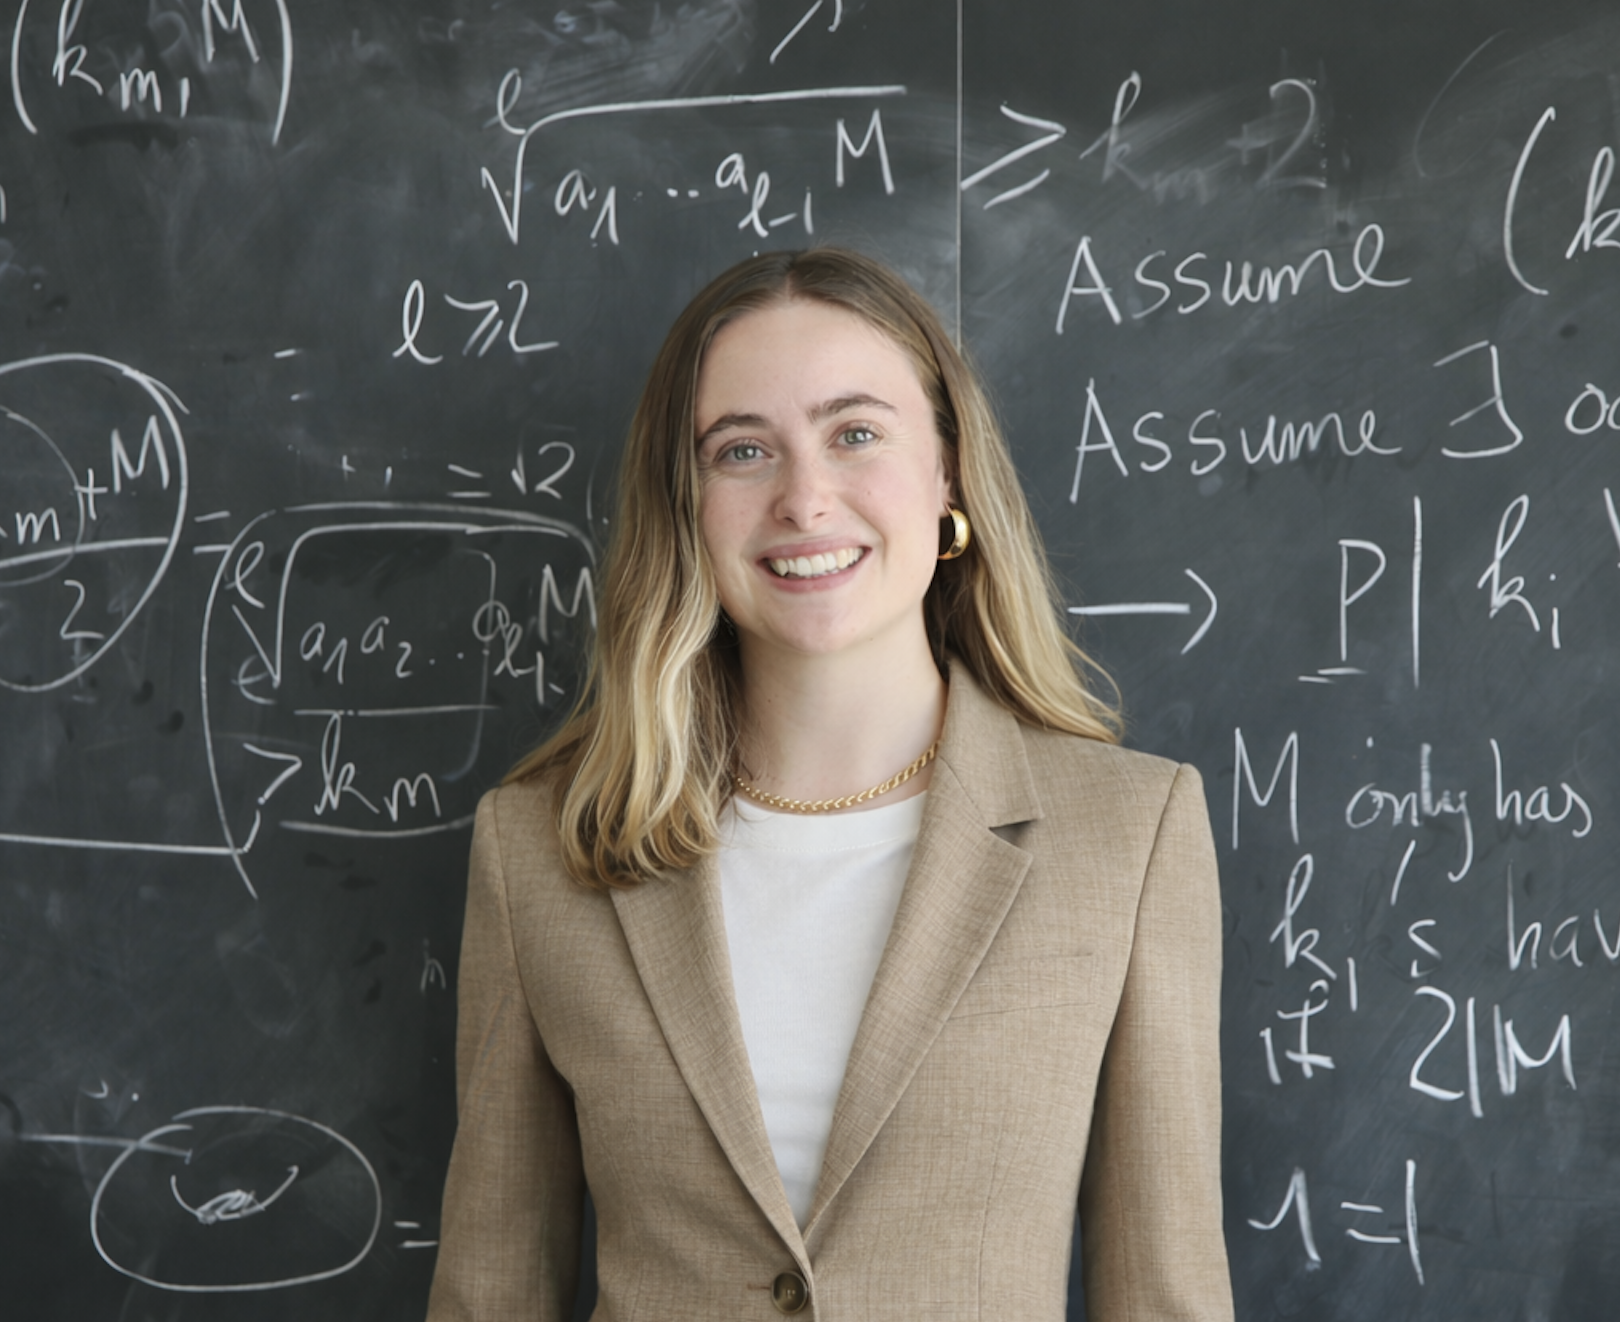
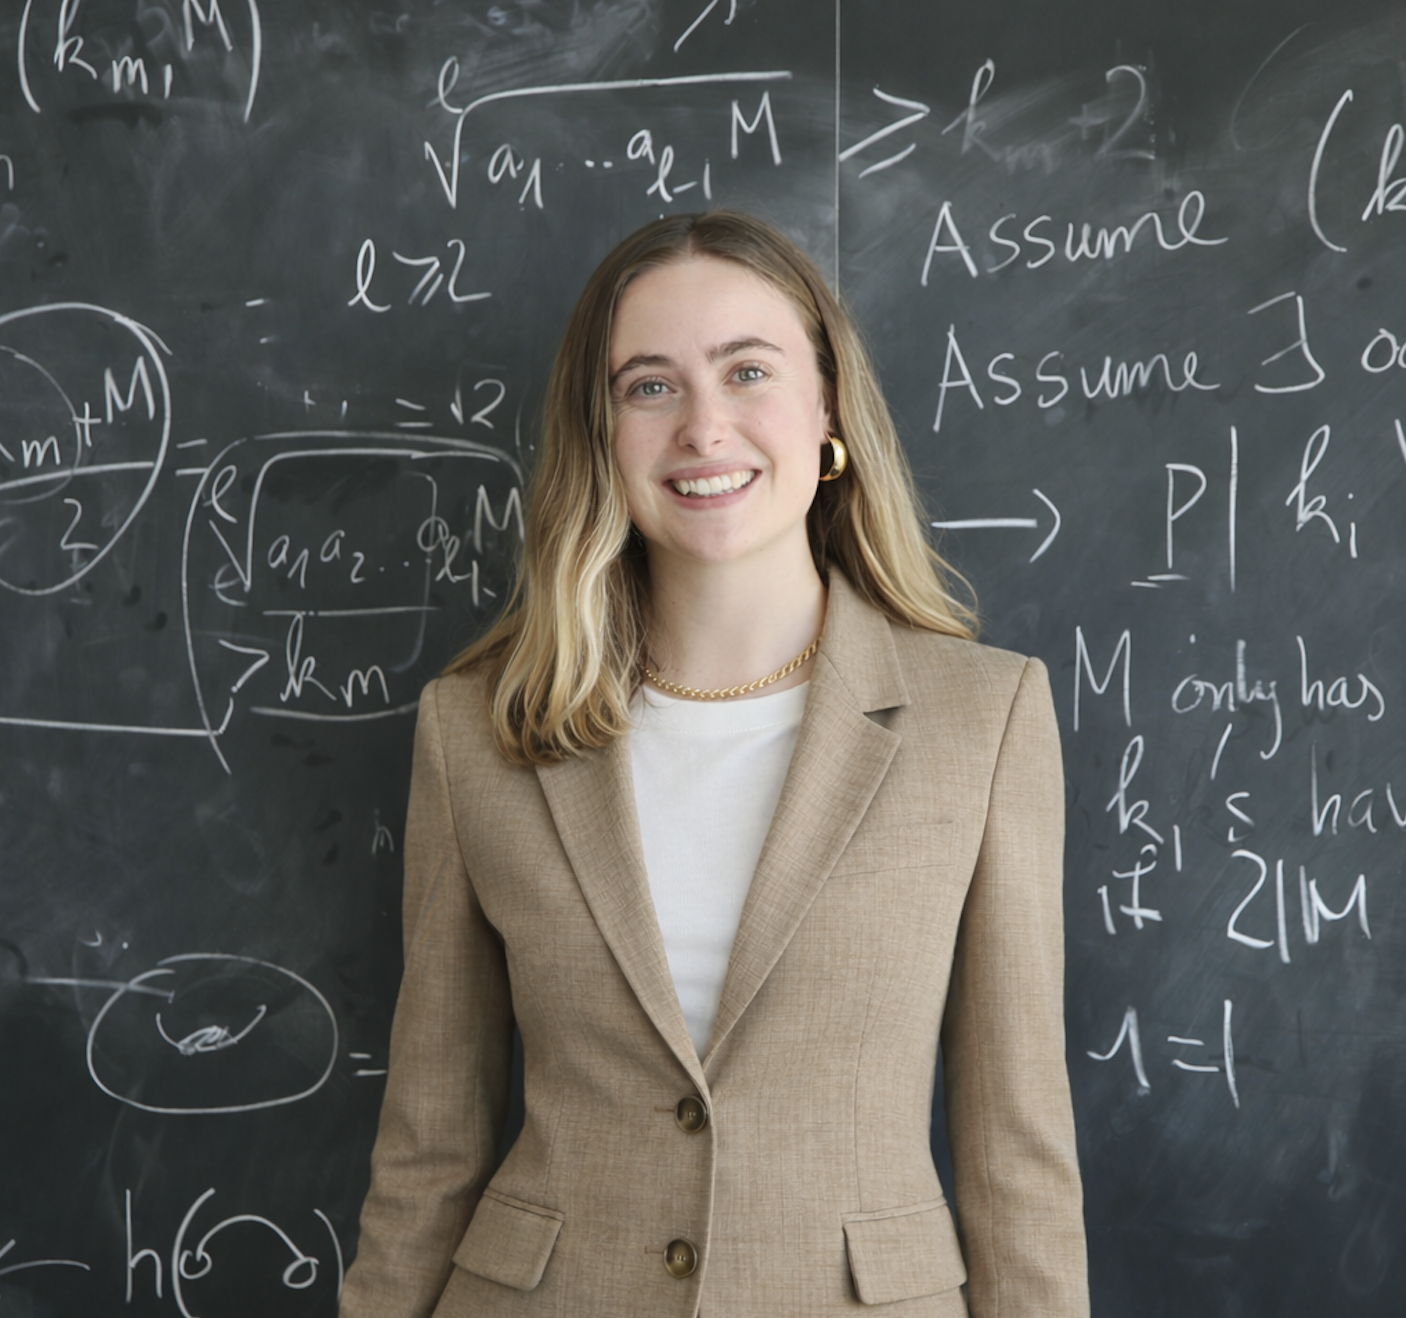
Update headshot and fix image display to show full width
Dynamically sizes the left column based on image aspect ratio
so the full headshot is visible without cropping, while keeping
the image height aligned to the about blurb.

diff --git a/website/index.html b/website/index.html
@@ -45,10 +45,12 @@
             padding-top: 2.6em;
         }
         img.portrait {
-            width: 100%;
+            width: auto;
+            max-width: 100%;
             height: auto;
             border-radius: 20px;
             display: block;
+            margin: 0 auto;
         }
         #typing-header {
             font-family: Arial, Helvetica, sans-serif;
@@ -80,7 +82,8 @@
                 width: 280px;
             }
             img.portrait {
-                height: auto;
+                height: auto !important;
+                width: 100%;
             }
             #social-icons {
                 justify-content: center;
@@ -148,6 +151,26 @@
         </div>
     </div>
     <script>
+        function matchPhotoToBubble() {
+            const bubble = document.querySelector('.about-bubble');
+            const photo = document.querySelector('img.portrait');
+            const leftCol = document.querySelector('.left-col');
+            if (!bubble || !photo || !leftCol) return;
+
+            if (window.innerWidth > 700) {
+                var targetHeight = bubble.offsetHeight;
+                var aspectRatio = photo.naturalWidth / photo.naturalHeight;
+                var targetWidth = Math.round(targetHeight * aspectRatio);
+                photo.style.height = targetHeight + 'px';
+                leftCol.style.width = targetWidth + 'px';
+            } else {
+                photo.style.height = 'auto';
+                leftCol.style.width = '';
+            }
+        }
+        window.addEventListener('load', matchPhotoToBubble);
+        window.addEventListener('resize', matchPhotoToBubble);
+
         document.addEventListener('DOMContentLoaded', function() {
             new TypeIt('#typing-header', {
                 speed: 80,
